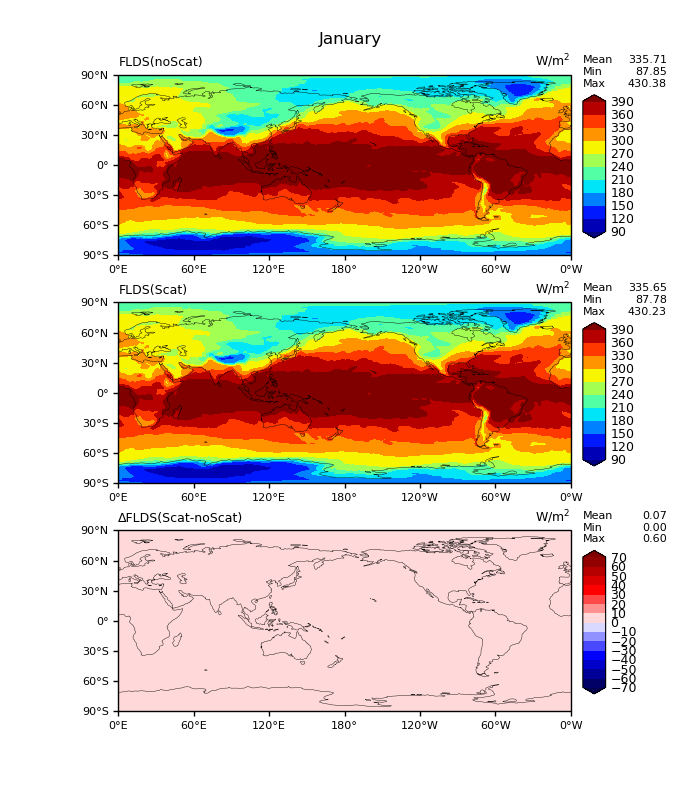
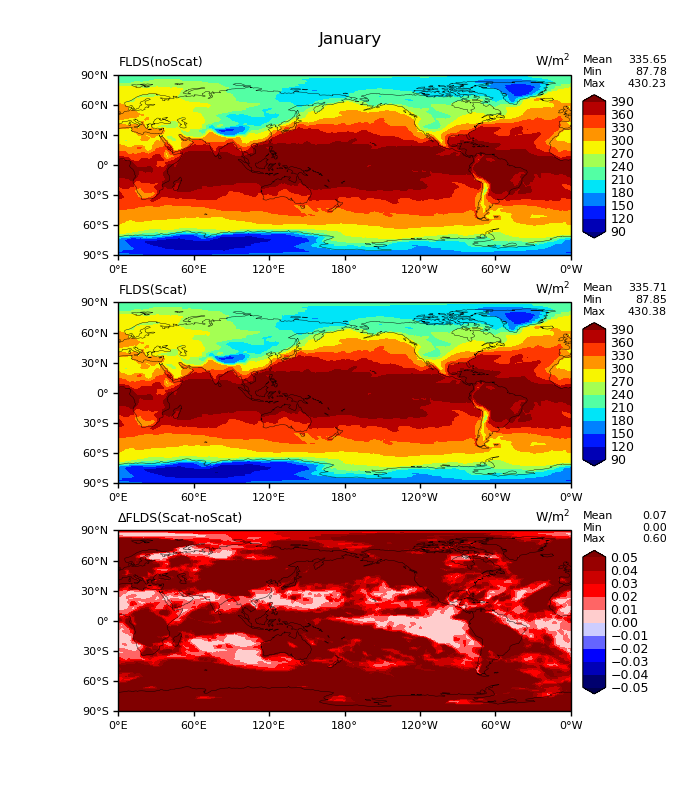
plot FLDS offline january

Changed region(s): [[0.15, 0.6562, 0.93, 0.9062], [0.93, 0.3438, 0.96, 0.4062], [0.93, 0.0625, 0.96, 0.0938]]

diff --git a/d1_lon_lat_contour_model_vs_model_sgl.py b/d1_lon_lat_contour_model_vs_model_sgl.py
@@ -123,7 +123,7 @@ for i in range(0,3):
         #cnlevels=np.arange(0,80,8)
         #cnlevels=np.arange(0,1,0.1)
     else:
-        cnlevels=np.arange(-70,80,10)
+        cnlevels=np.arange(-0.05,0.06,0.01)
         #cnlevels=np.arange(-7,8,1)
         #cnlevels=np.arange(-0.8,1.0,0.2)
         #cnlevels=np.arange(-5,6,1)
@@ -143,12 +143,12 @@ for i in range(0,3):
         dtplot=dtexp[:,:,:]
         #cmap="PiYG_r" #parameters["colormap"]
         cmap="jet" #parameters["colormap"]
-        stats=stats_exp[:]
+        stats=stats_ctl[:]
     elif i == 1:
         dtplot=dtctl[:,:,:]
         #cmap="PiYG_r" #parameters["colormap"]
         cmap="jet" #parameters["colormap"]
-        stats=stats_ctl[:]
+        stats=stats_exp[:]
     else:
         dtplot=dtdif[:,:,:]
         cmap="seismic" #parameters["colormap_diff"]
